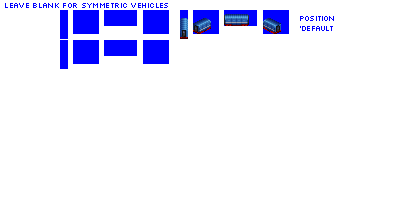
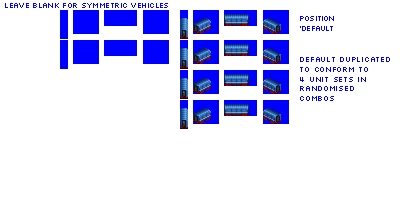
Change: gen 4 randomised double deck automobile cars

Changed region(s): [[0.45, 0.18, 0.72, 0.66], [0.75, 0.27, 0.96, 0.45], [0.75, 0.48, 0.84, 0.51]]

diff --git a/src/train/schemas.py b/src/train/schemas.py
@@ -2720,12 +2720,47 @@ class AutomobileSingleDeckCar(AutomobileCarBase):
         if self.subtype == "D":
             formation_ruleset = "articulated_permanent_twin_sets"
         else:
-            formation_ruleset = "max_1_unit_sets"
+            formation_ruleset = "max_4_unit_sets"
         self.gestalt_graphics = GestaltGraphicsAutomobilesTransporter(
             spritelayer_cargo_layers=["default"],
             formation_ruleset=formation_ruleset,
             catalogue_entry=self.catalogue_entry,
         )
+
+
+class AutomobileCarSingleDeckRandomised(RandomisedCarFormationDependentMixin, AutomobileCarBase):
+    """
+    Randomised choice of automobile car - preserves sets.
+    """
+
+    model_id_root = "automobile_car_randomised"
+    vehicle_family_id = "automobile_car"
+    variant_group_id_root = "wagon_group_vehicle_transporter_cars"
+
+    def __init__(self, **kwargs):
+        super().__init__(**kwargs)
+        # Graphics configuration
+        if self.subtype == "D":
+            formation_ruleset = "articulated_permanent_twin_sets"
+        else:
+            formation_ruleset = "max_4_unit_sets"
+        self.gestalt_graphics = GestaltGraphicsRandomisedWagonSpritelayerCargo(
+            formation_ruleset=formation_ruleset,
+            dice_colour=2,
+            catalogue_entry=self.catalogue_entry,
+        )
+
+    @property
+    def formation_ruleset_badges(self):
+        # Candidate graphics reinitialise the formation position with their own
+        # model-id predicate. Advertise those predicates on the wrapper so all
+        # randomised express intermodal cars participate in the same candidate chains.
+        result = super().formation_ruleset_badges
+        for candidate in self.wagon_randomisation_candidates:
+            result.append(
+                f"_ih_formation_ruleset/vehicle_reports_as/{candidate.model_id}"
+            )
+        return result
 
 
 class AutomobileDoubleDeckCar(AutomobileCarBase):
@@ -2773,51 +2808,12 @@ class AutomobileDoubleDeckEnclosedCar(AutomobileCarBase):
         # Graphics configuration
         if self.subtype == "D":
             formation_ruleset = "articulated_permanent_twin_sets"
-        elif self.gen == 5:
-            formation_ruleset = "max_4_unit_sets"
         else:
-            formation_ruleset = "max_1_unit_sets"
+            formation_ruleset = "max_4_unit_sets"
         self.gestalt_graphics = GestaltGraphicsAutomobilesTransporter(
             # layers for spritelayer cargos - this is nerfed off for enclosed cars, no visible cargo
             spritelayer_cargo_layers=[],
             formation_ruleset=formation_ruleset,
-            catalogue_entry=self.catalogue_entry,
-        )
-
-
-class AutomobileMotorailCar(AutomobileCarBase):
-    """
-    Fully enclosed automobile transporter with, no vehicle sprites shown.
-    """
-
-    livery_group_name = "default_motorail_liveries"
-
-    model_id_root = "motorail_automobile_car"
-
-    formation_reporting_labels = [
-        "motorail_car",
-    ]
-
-    def __init__(self, **kwargs):
-        super().__init__(**kwargs)
-        self.use_colour_randomisation_strategies = False
-        # Graphics configuration
-        # roof configuration
-        if self.gen in [1]:
-            self.roof_type = "pax_mail_clerestory"
-        elif self.gen in [2, 3]:
-            self.roof_type = "pax_mail_ridged"
-        else:
-            self.roof_type = "pax_mail_smooth"
-        formation_position_spriterow_map = {
-            "default": 0,
-            "first": 0,  # default, first, last synonymous currently for motorail cars
-            "last": 0,
-            "special": 1,
-        }
-        self.gestalt_graphics = GestaltGraphicsFormationDependent(
-            formation_position_spriterow_map,
-            formation_ruleset="motorail_cars",
             catalogue_entry=self.catalogue_entry,
         )
 
@@ -2855,6 +2851,43 @@ class AutomobileCarDoubleDeckRandomised(RandomisedCarFormationDependentMixin, Au
                 f"_ih_formation_ruleset/vehicle_reports_as/{candidate.model_id}"
             )
         return result
+
+
+class AutomobileMotorailCar(AutomobileCarBase):
+    """
+    Fully enclosed automobile transporter with, no vehicle sprites shown.
+    """
+
+    livery_group_name = "default_motorail_liveries"
+
+    model_id_root = "motorail_automobile_car"
+
+    formation_reporting_labels = [
+        "motorail_car",
+    ]
+
+    def __init__(self, **kwargs):
+        super().__init__(**kwargs)
+        self.use_colour_randomisation_strategies = False
+        # Graphics configuration
+        # roof configuration
+        if self.gen in [1]:
+            self.roof_type = "pax_mail_clerestory"
+        elif self.gen in [2, 3]:
+            self.roof_type = "pax_mail_ridged"
+        else:
+            self.roof_type = "pax_mail_smooth"
+        formation_position_spriterow_map = {
+            "default": 0,
+            "first": 0,  # default, first, last synonymous currently for motorail cars
+            "last": 0,
+            "special": 1,
+        }
+        self.gestalt_graphics = GestaltGraphicsFormationDependent(
+            formation_position_spriterow_map,
+            formation_ruleset="motorail_cars",
+            catalogue_entry=self.catalogue_entry,
+        )
 
 
 class BolsterCarBase(CarSchemaBase):

diff --git a/src/vehicles/pony/double_deck_automobile_cars_randomised_pony.py b/src/vehicles/pony/double_deck_automobile_cars_randomised_pony.py
@@ -8,6 +8,56 @@ def main(**kwargs):
 
     model_def = ModelDef(
         schema_name="AutomobileCarDoubleDeckRandomised",
+        base_numeric_id=63770,
+        gen=4,
+        subtype="B",
+        sprites_complete=True,
+    )
+
+    model_def.add_unit_def(
+        unit_cls_name="AutomobileCarRandomisedUnit", chassis="empty_24px"
+    )
+
+    result.append(model_def)
+
+    model_def = ModelDef(
+        schema_name="AutomobileCarDoubleDeckRandomised",
+        base_numeric_id=63760,
+        gen=4,
+        subtype="C",
+        sprites_complete=True,
+    )
+
+    model_def.add_unit_def(
+        unit_cls_name="AutomobileCarRandomisedUnit", chassis="empty_32px"
+    )
+
+    result.append(model_def)
+
+    model_def = ModelDef(
+        schema_name="AutomobileCarDoubleDeckRandomised",
+        base_numeric_id=5000,
+        gen=4,
+        subtype="D",
+        sprites_complete=True,
+    )
+
+    model_def.add_unit_def(
+        unit_cls_name="AutomobileCarRandomisedUnit",
+        chassis="empty_20px",
+        rel_spriterow_index=0,
+    )
+
+    model_def.add_unit_def(
+        unit_cls_name="AutomobileCarRandomisedUnit",
+        chassis="empty_20px",
+        rel_spriterow_index=1,
+    )
+
+    result.append(model_def)
+
+    model_def = ModelDef(
+        schema_name="AutomobileCarDoubleDeckRandomised",
         base_numeric_id=63780,
         gen=5,
         subtype="B",
